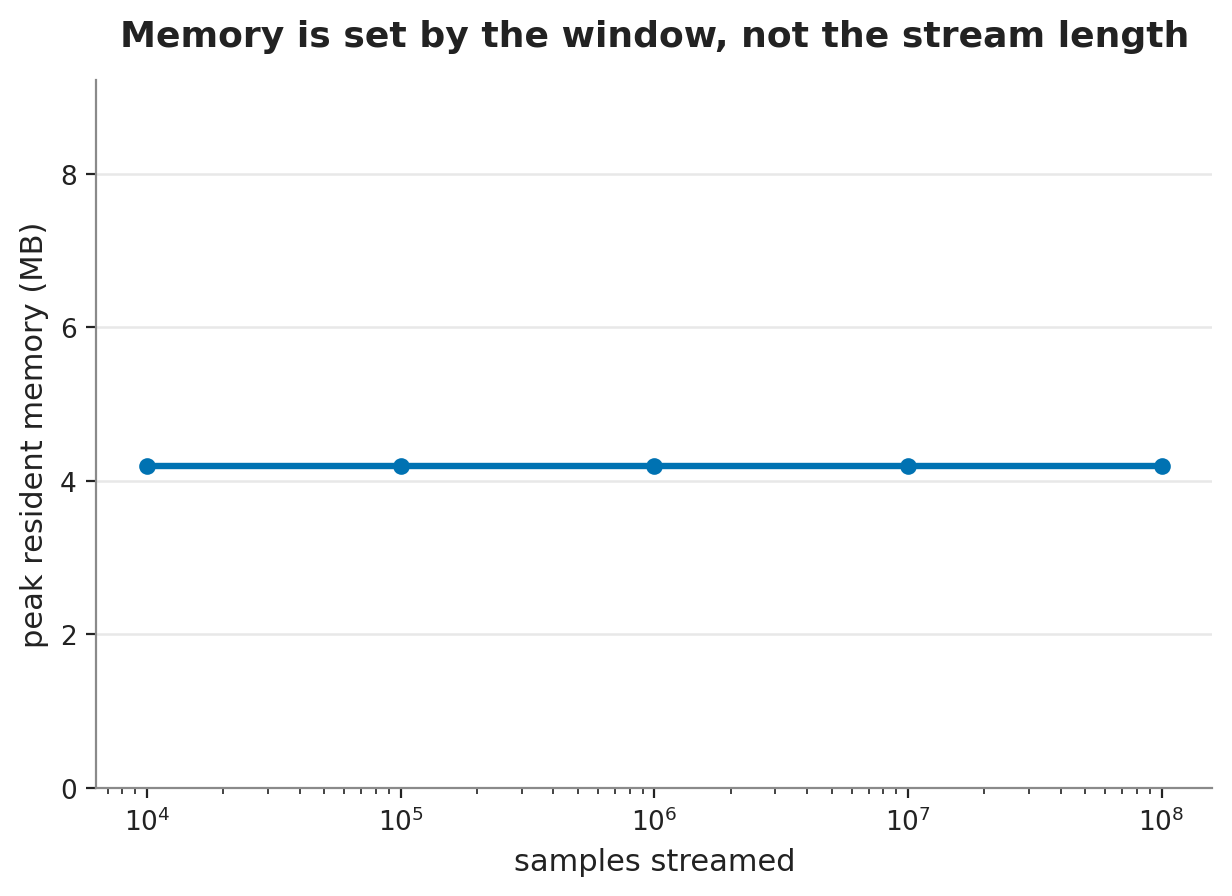
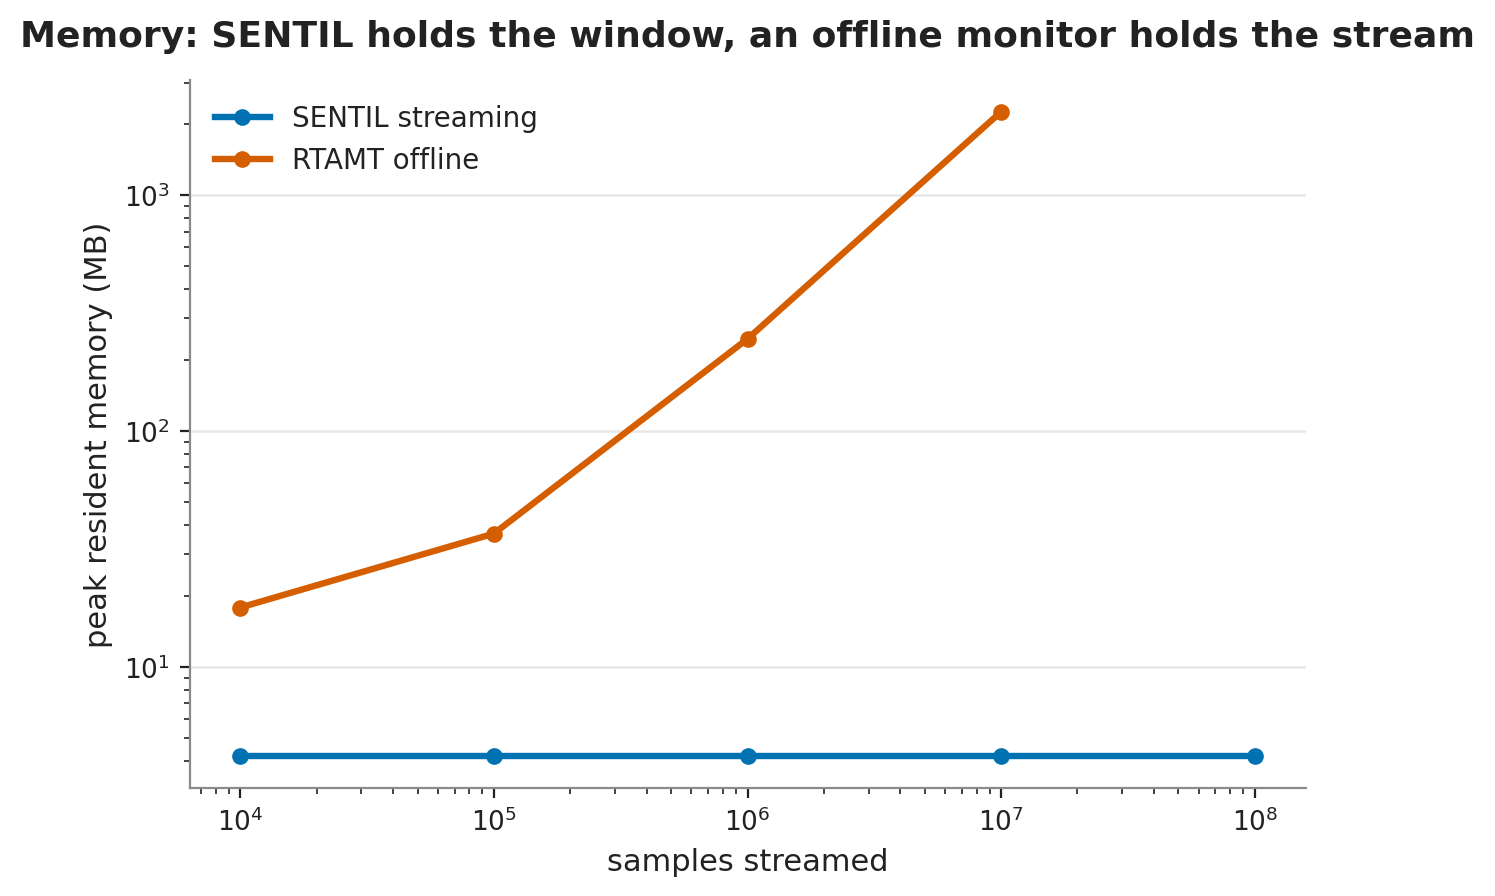
make the memory chart a comparison, sentil's window against rtamt's whole stream

diff --git a/benchmarks/runners/plot.py b/benchmarks/runners/plot.py
@@ -150,16 +150,24 @@ def scaling(records):
     save(fig, "scaling.png")
 
 def memory(records):
-    rows = sorted((r["size"], r["peak_rss_bytes"] / 1e6) for r in records if r.get("benchmark") == "memory/length")
-    if not rows:
+    def rss(tool):
+        return sorted((r["size"], r["peak_rss_bytes"] / 1e6) for r in records
+                      if r.get("benchmark") == "memory/length" and r.get("tool") == tool)
+    s = rss("sentil")
+    rt = rss("rtamt")
+    if not s:
         return
     fig, ax = plt.subplots()
-    style.hero_line(ax, [p[0] for p in rows], [p[1] for p in rows], "resident memory")
+    style.hero_line(ax, [p[0] for p in s], [p[1] for p in s], "SENTIL streaming")
+    if rt:
+        ax.plot([p[0] for p in rt], [p[1] for p in rt], color=style.TOOL["rtamt"],
+                marker="o", label="RTAMT offline", zorder=4)
     ax.set_xscale("log")
-    ax.set_ylim(0, max(p[1] for p in rows) * 2.2)
+    ax.set_yscale("log")
     ax.set_xlabel("samples streamed")
     ax.set_ylabel("peak resident memory (MB)")
-    ax.set_title("Memory is set by the window, not the stream length")
+    ax.set_title("Memory: SENTIL holds the window, an offline monitor holds the stream")
+    ax.legend(loc="upper left")
     save(fig, "memory.png")
 
 THROUGHPUT_MODELS = ("single_step", "always_ten", "eventually_ten")
